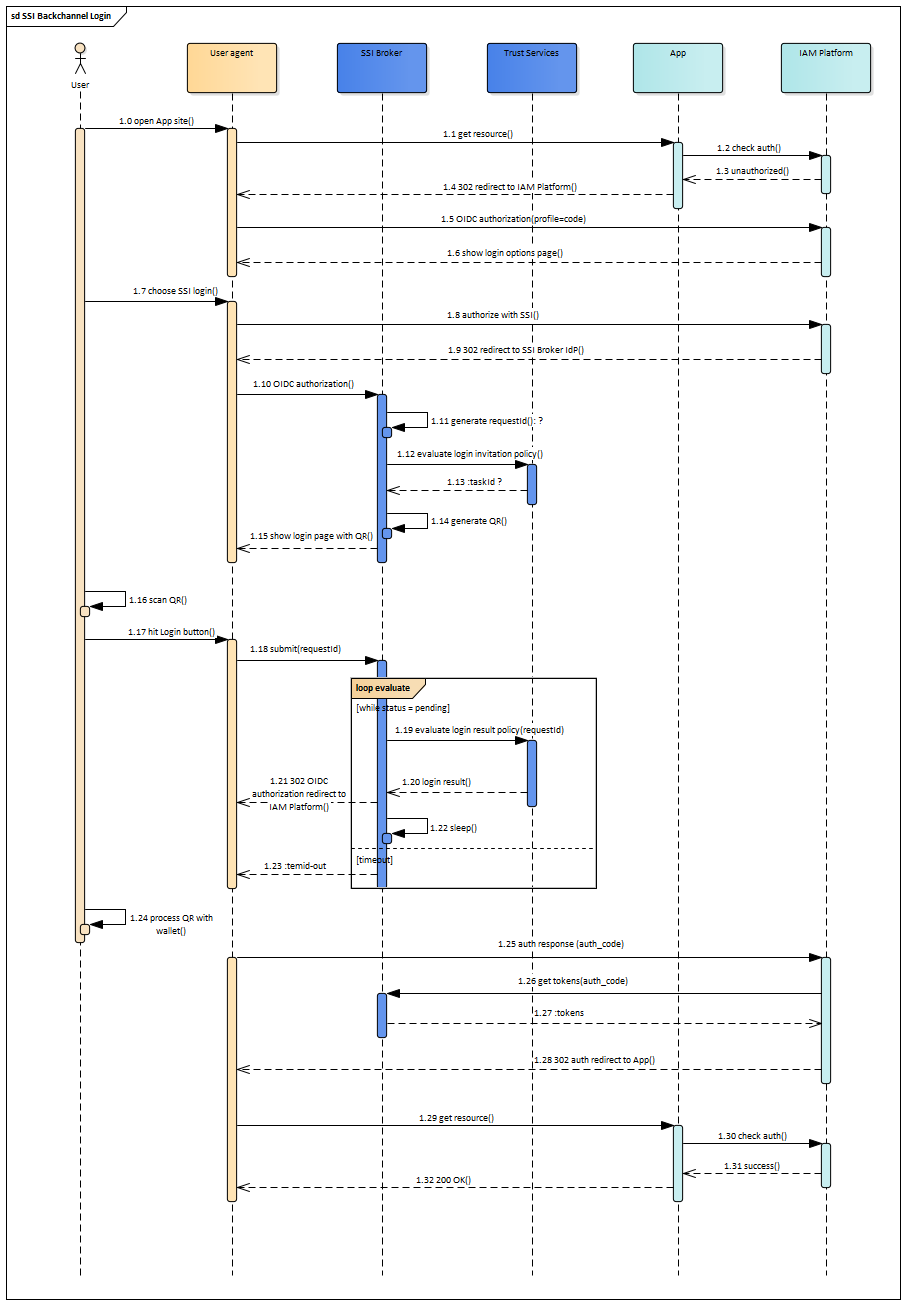
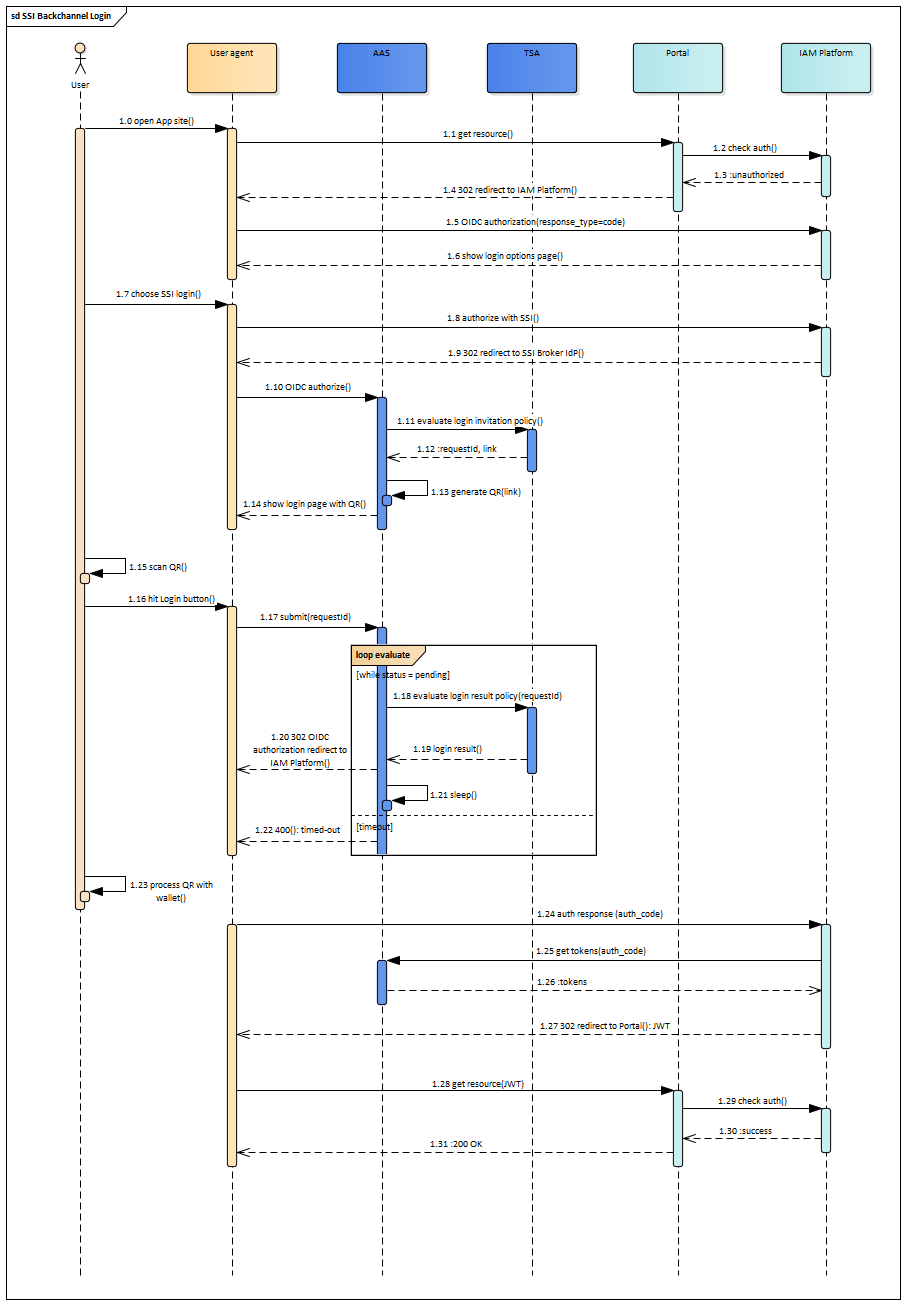
adding documents

diff --git a/doc/functions/oidc_config/index.md b/doc/functions/oidc_config/index.md
@@ -1,0 +1,23 @@
+## OIDC Configuration
+
+AAS provides a standard [OIDC Discovery Endpoint](https://openid.net/specs/openid-connect-discovery-1_0.html) at /.well-known/openid-configuration. The information exposed at this endpoint is: 
+
+    {
+      "issuer": "{base-server-url}", 
+      "authorization_endpoint": "{base-server-url}/oauth2/authorize", 
+      "userinfo_endpoint": "{base-server-url}/userinfo", 
+      "jwks_uri": "{base-server-url}/oauth2/jwks", 
+      "scopes_supported": ["openid", "profile", "email"], 
+      "response_types_supported": ["code"], 
+      "grant_types_supported": ["authorization_code"], 
+      "token_endpoint":"{base-server-url}/oauth2/token",
+      "token_endpoint_auth_methods_supported": ["client_secret_basic"], 
+      "subject_types_supported": ["public"], 
+      "id_token_signing_alg_values_supported": ["RS256"], 
+      "userinfo_signing_alg_values_supported": ["RS256"], 
+      "display_values_supported": ["page"], 
+      "claims_supported": ["iss", "sub", "auth_time", "name", "given_name", "family_name", "middle_nickname", "preferred_username", "gender", "birthdate", "updated_at", "email", "email_verified"], 
+      "claims_locales_supported": ["en"],
+      "ui_locales_supported": ["en", "de", "fr"]
+    }
+

diff --git a/doc/functions/iat_provider/index.md b/doc/functions/iat_provider/index.md
@@ -12,22 +12,6 @@ The communication flow between Client app, AAS and its IAM is:
 ![IAT Issuing](./images/iat_issuing.png "IAT Issuing")
 
 
-As alternative, the DCR scenario can be covered completely by our AAS implementation removing a necessity for Client to do extra calls for IAT and performing the whole scenario in synchronous way. Communication flow participans are:
-
-- Client Service – an application or service in Client domain
-- Client OCM – Organization Credential Manager (LOT3) in Client domain
-- SSI Broker (SSI IAT Provider) – an endpoint from AAS in SSI domain
-- SSI TSA – Trast Service API (LOT4) from SSI domain
-- SSI OCM – LOT3 from SSI domain
-- SSI IAM – Identity and Access Management Platform from SSI domain
-
-
-An alternative DCR communication flow is:
-
-![Dynamic Client Registration](./images/dcr.png "Dynamic Client Registration")
-
-1.	OCM services from different domains establish trust connection between each other (some flow in Notarization or Orchestration LOTs, probably)
-2.	Client Service registers with OCM in its local domain
-3.	Client Service performs a dynamic registration via standard DCR endpoint in SSI AAS
+An alternative scenario proposed in [Dynamic Client Registration](../dcr) function.
 
 

diff --git a/doc/functions/dcr/index.md b/doc/functions/dcr/index.md
@@ -1,0 +1,21 @@
+## Dynamic Client Registration
+
+As alternative, the DCR scenario can be covered completely by our AAS implementation removing a necessity for Client to do extra calls for IAT and performing the whole scenario in synchronous way. Communication flow participants are:
+
+- Client Service – an application or service in Client domain
+- Client OCM – Organization Credential Manager (LOT3) in Client domain
+- SSI Broker (SSI IAT Provider) – an endpoint from AAS in SSI domain
+- SSI TSA – Trust Service API (LOT4) from SSI domain
+- SSI OCM – LOT3 from SSI domain
+- SSI IAM – Identity and Access Management Platform from SSI domain
+
+
+An alternative DCR communication flow is:
+
+![Dynamic Client Registration](./images/dcr.png "Dynamic Client Registration")
+
+1.	OCM services from different domains establish trust connection between each other (some flow in Notarization or Orchestration LOTs, probably)
+2.	Client Service registers with OCM in its local domain
+3.	Client Service performs a dynamic registration via standard DCR endpoint in SSI AAS
+
+

diff --git a/doc/functions/siop_login/index.md b/doc/functions/siop_login/index.md
@@ -4,9 +4,9 @@
 The SSI SIOP login flow. Participants are:
 
 - User agent: browser. 
-- SIOP (RP): SIOP component implemented in the GAIA-X AAS. Works as RP part in SIOP protocol.
-- App: Application protected by IAM Platform (GAIA-X Portal, for instance).
+- AAS (RP): [Authentication & Authorization Service](https://www.gxfs.eu/authentication-authorisation/), GAIA-X LOT1 implementation. Works as RP part in SIOP protocol.
+- Portal: [Portal](https://www.gxfs.eu/portal/) web application, GAIA-X LOT13 implementation.
 - IAM Platform: Identity and Access Management solution like keycloak, Gluu, WSO2, etc. 
-- PCM (OP): Personal Credential Manager component - implemented in GAIA-X LOT2. Works as OP part in SIOP protocol. 
+- PCM (OP): [Personal Credential Manager](https://www.gxfs.eu/personal-credential-manager/), GAIA-X LOT2 implementation. Works as OP part in SIOP protocol. 
 
 ![SSI SIOP login](./images/siop_login.png "SSI SIOP login")

diff --git a/doc/functions/big_login/index.md b/doc/functions/big_login/index.md
@@ -1,0 +1,15 @@
+## SSI Login - Big Picture
+
+
+This is to see the full picture and discuss required integration points between GAIA-X services. Participants are:
+
+- User agent: browser. 
+- AAS: [Authentication & Authorization Service](https://www.gxfs.eu/authentication-authorisation/), GAIA-X LOT1 implementation.
+- IAM Platform: Identity and Access Management solution like keycloak, Gluu, WSO2, etc. 
+- Portal: [Portal](https://www.gxfs.eu/portal/) web application, GAIA-X LOT13 implementation.
+- TSA: [Trust Service API](https://www.gxfs.eu/trust-services-api/), GAIA-X LOT4 implementation.
+- OCM: [Organization Credential Manager](https://www.gxfs.eu/organizational-credential-manager/), GAIA-X LOT3 implementation. 
+- PCM: [Personal Credential Manager](https://www.gxfs.eu/personal-credential-manager/), GAIA-X LOT2 implementation. 
+
+![SSI Login - Big Picture](./images/ssi_login_full.png "SSI Login - Full Picture")
+

diff --git a/doc/functions/lissi_login/index.md b/doc/functions/lissi_login/index.md
@@ -1,0 +1,17 @@
+## Possible integration with Lissi Wallet
+
+
+It is very similar to SIOP protocol and bypass communication with underlying SSI infrastructure on AAS side. Participants are:
+
+- User agent: browser. 
+- AAS (RP): [Authentication & Authorization Service](https://www.gxfs.eu/authentication-authorisation/), GAIA-X LOT1 implementation.
+- Portal: [Portal](https://www.gxfs.eu/portal/) web application, GAIA-X LOT13 implementation.
+- IAM Platform: Identity and Access Management solution like keycloak, Gluu, WSO2, etc. 
+- Lissi (OP): Lissi Wallet - mobile application processing user credentials. 
+- Aries: Blockchain holding user Verifiable Credentials.
+
+![Lissi login](./images/lissi_login.png "Lissi login")
+
+
+
+The only difference with SIOP in how auth request is prepared in AAS (step 1.11) and what is provided to AAS auth callback from Lissi (step 1.19).

diff --git a/doc/functions/ssi_login/index.md b/doc/functions/ssi_login/index.md
@@ -4,9 +4,9 @@
 The SSI Backchannel login flow. Participants are:
 
 - User agent: browser. 
-- SSI Broker: the SSI OIDC Broker component implemented in the GAIA-X AAS. 
-- Trust Services: LOT4 service from GAIA-X
-- App: Application protected by IAM Platform (GAIA-X Portal, for instance)
+- AAS: [Authentication & Authorization Service](https://www.gxfs.eu/authentication-authorisation/), GAIA-X LOT1 implementation.
+- TSA: [Trust Service API](https://www.gxfs.eu/trust-services-api/), GAIA-X LOT4 implementation.
+- Portal: [Portal](https://www.gxfs.eu/portal/) web application, GAIA-X LOT13 implementation.
 - IAM Platform: Identity and Access Management solution like keycloak, Gluu, WSO2, etc. 
 
 ![SSI Backhannel login](./images/ssi_ciba_login.png "SSI Backchannel login")

diff --git a/doc/functions/index.md b/doc/functions/index.md
@@ -3,5 +3,13 @@
 - [SSI Backchannel Login](./ssi_login)
 - [SSI SIOP Login](./siop_login)
 - [IAT Issuing](./iat_provider)
+- [OIDC Configuration](./oidc_config)
 - [Claims Information Point](./cip_endpoint)
 - [Integration with TSA](./tsa)
+
+
+### Additional materials
+
+- [SSI Backchannel Login - Big Picture](./big_login)
+- [Integration with Lissi](./lissi_login)
+- [Dynamic Client Registration](./dcr)
